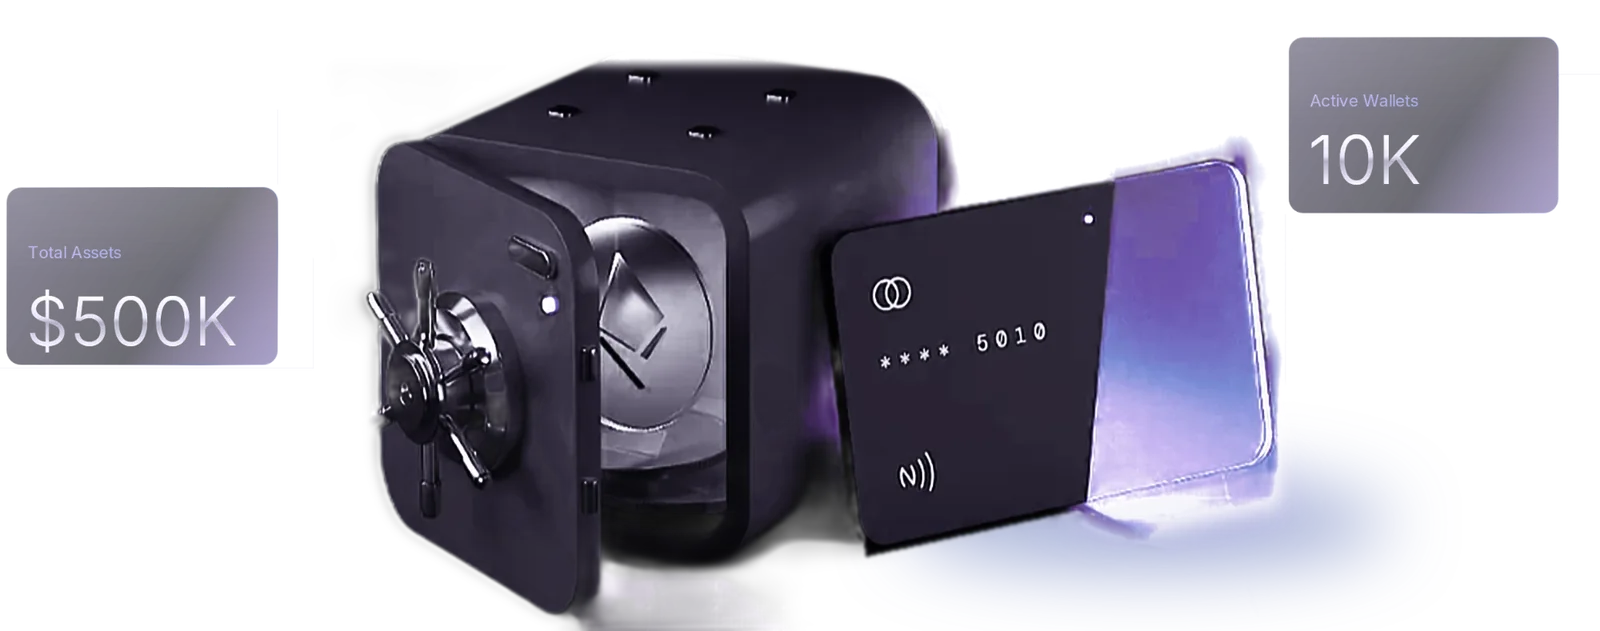
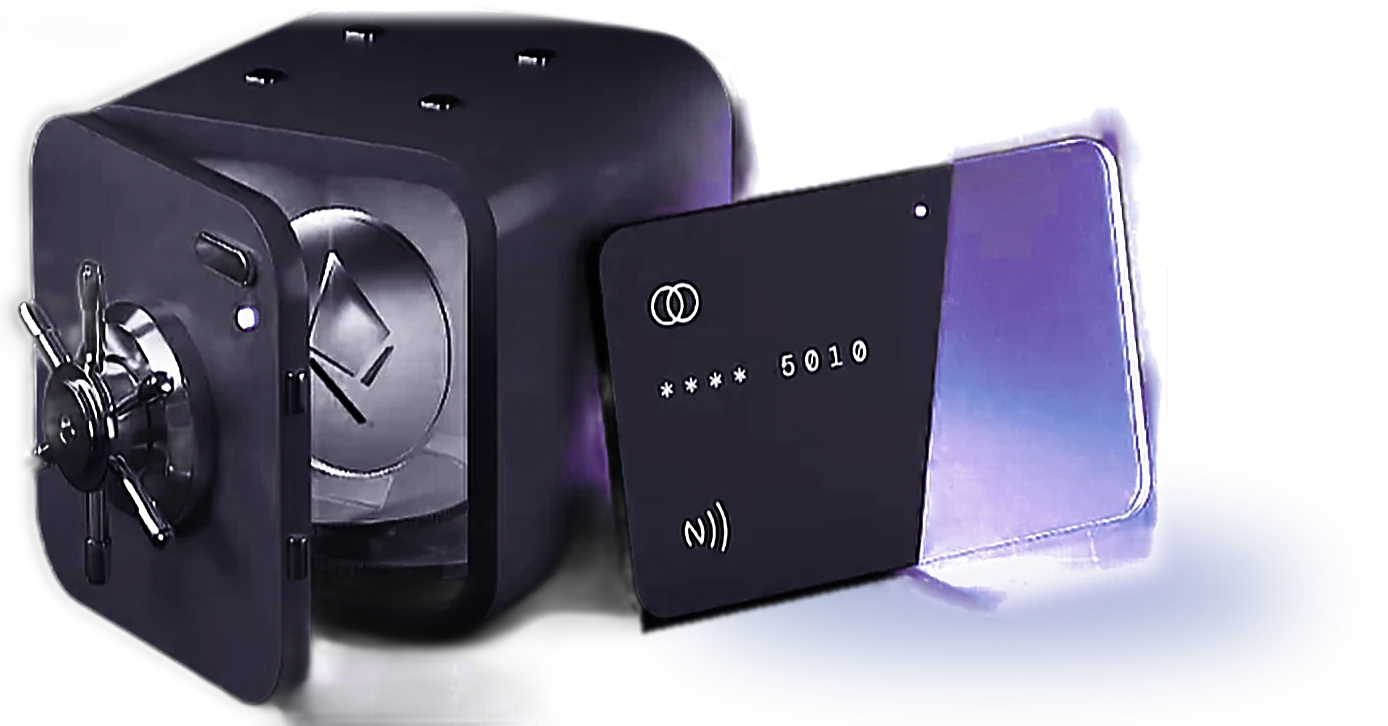
Visual tweaks: sharper animated vault, phone fade, bigger jellyfish
- Wallet section: vault image cleaned and sharpened, figure boxes rebuilt
  as crisp HTML cards (translated), with a gentle float/drift/glow
  animation (off for reduced motion)
- Home app section: phone bottom fades into the page (about 18% shorter)
- Play/pause buttons hidden on the home and sign-up animations
  (AppVideo controls prop)
- Remove the sign-up button under the crypto cards
- Jellyfish 40% larger
- Sign-up: perks box removed, animation enlarged to 560 px

Claude-Session: https://claude.ai/code/session_011eGto6iEGh3aaJA13mcTgq

diff --git a/resources/js/landing/components/sections/GlobeSection.vue b/resources/js/landing/components/sections/GlobeSection.vue
@@ -24,9 +24,17 @@ defineProps({
       </div>
     </div>
 
+    <!-- Coffre + carte (image nette) et deux encadrés de chiffres en HTML, animés séparément. -->
     <div v-reveal class="globe__media">
       <span class="globe__glow" aria-hidden="true" />
-      <img :src="data.image.src" :width="data.image.width" :height="data.image.height" :alt="data.image.alt" loading="lazy" decoding="async" />
+      <div class="globe__vault">
+        <img :src="data.image.src" :width="data.image.width" :height="data.image.height" :alt="data.image.alt" loading="lazy" decoding="async" />
+        <span class="globe__shine" aria-hidden="true" />
+      </div>
+      <div v-for="(s, i) in data.stats" :key="s.label" class="globe__stat" :class="`is-${i}`">
+        <span>{{ s.label }}</span>
+        <strong class="num">{{ s.value }}</strong>
+      </div>
     </div>
   </section>
 </template>
@@ -41,8 +49,30 @@ defineProps({
 .globe__features { display: grid; gap: 16px; margin-top: 44px; font-size: 14px; }
 .globe__features li { display: flex; align-items: center; gap: 14px; }
 /* Visuel large (coffre, carte, indicateurs) : à droite, jusqu'au bord de l'écran, sur un halo violet discret. */
-.globe__media { position: absolute; right: 0; top: 50%; width: min(820px, 54vw); transform: translateY(-50%); }
-.globe__media img { display: block; width: 100%; height: auto; }
+.globe__media { position: absolute; right: 0; top: 50%; width: min(820px, 54vw); aspect-ratio: 2000 / 789; transform: translateY(-50%); container-type: inline-size; }
+/* Positions reprises de l'image d'origine (2000 × 789) pour garder la même composition. */
+.globe__vault { position: absolute; left: 22%; top: 8%; width: 69.4%; animation: globe-float 7s ease-in-out infinite alternate; }
+.globe__vault img { display: block; width: 100%; height: auto; }
+/* Reflet lumineux qui pulse sous la carte. */
+.globe__shine {
+  position: absolute; left: 64%; top: 62%; width: 36%; height: 42%; pointer-events: none; mix-blend-mode: screen;
+  background: radial-gradient(closest-side, color-mix(in srgb, var(--color-brand-secondary-300) 55%, transparent), transparent 75%);
+  animation: globe-pulse 3.6s ease-in-out infinite alternate;
+}
+.globe__stat {
+  position: absolute; display: grid; align-content: center; gap: 0.6cqi; padding: 0 1.8cqi; height: 11.2cqi; min-width: 17cqi; white-space: nowrap;
+  border-radius: 1cqi; border: 1px solid color-mix(in srgb, var(--color-text-default) 14%, transparent);
+  background: linear-gradient(135deg, color-mix(in srgb, var(--color-text-default) 22%, var(--color-bg-surface)), color-mix(in srgb, var(--color-brand-primary) 30%, var(--color-bg-surface)));
+  box-shadow: 0 2cqi 4cqi -2cqi var(--ink); backdrop-filter: blur(10px); -webkit-backdrop-filter: blur(10px);
+}
+.globe__stat span { font-size: max(8.5px, 1.25cqi); color: color-mix(in srgb, var(--color-brand-secondary-300) 85%, var(--color-text-default)); }
+.globe__stat strong { font-size: 4.4cqi; font-weight: 300; line-height: 1; letter-spacing: -0.02em; color: var(--color-text-default); }
+.globe__stat.is-0 { left: 0.4%; top: 29.5%; animation: globe-drift 8s ease-in-out infinite alternate; }
+.globe__stat.is-1 { right: 2.6%; top: 5.7%; animation: globe-drift 9s ease-in-out -3s infinite alternate-reverse; }
+@keyframes globe-float { from { transform: translateY(-1.2cqi) rotate(-0.6deg); } to { transform: translateY(1.2cqi) rotate(0.6deg); } }
+@keyframes globe-drift { from { transform: translate(-0.6cqi, -1.4cqi); } to { transform: translate(0.6cqi, 1.4cqi); } }
+@keyframes globe-pulse { from { opacity: 0.35; } to { opacity: 0.9; } }
+@media (prefers-reduced-motion: reduce) { .globe__vault, .globe__stat, .globe__shine { animation: none; } }
 .globe__glow {
   position: absolute; inset: -30% -20%; z-index: -1; pointer-events: none;
   background: radial-gradient(closest-side, color-mix(in srgb, var(--color-brand-primary) 45%, transparent), transparent 70%); opacity: 0.55;

diff --git a/resources/js/landing/components/auth/AuthVisual.vue b/resources/js/landing/components/auth/AuthVisual.vue
@@ -3,10 +3,9 @@ import { ref } from 'vue';
 import { prefersReducedMotion } from '../../composables/useReducedMotion.js';
 import AppVideo from '../visuals/AppVideo.vue';
 import ShieldMark from '../visuals/ShieldMark.vue';
-import ZIcon from '../ui/ZIcon.vue';
 
 // Visuel des pages d'authentification. Connexion : image (cadenas et clé) qui suit légèrement le pointeur.
-// Inscription : vidéo de pièces (fond transparent) au-dessus des avantages.
+// Inscription : vidéo de pièces (fond transparent), sans bouton lecture / pause.
 defineProps({
   data: { type: Object, required: true }, // pages.login.visual | pages.signup.visual
   variant: { type: String, default: 'shield' }, // shield | perks
@@ -45,12 +44,7 @@ function onLeave() {
     </div>
 
     <div v-else class="av__stage">
-      <div v-if="data.video" class="av__video"><AppVideo :video="data.video" toggle="corner" /></div>
-      <div class="av__card" v-reveal="300">
-        <ul>
-          <li v-for="p in data.perks" :key="p"><ZIcon name="check" :size="16" /> {{ p }}</li>
-        </ul>
-      </div>
+      <div v-if="data.video" class="av__video"><AppVideo :video="data.video" :controls="false" /></div>
     </div>
   </div>
 </template>
@@ -68,20 +62,10 @@ function onLeave() {
 }
 .av__shield.is-image { width: min(400px, 72%); }
 .av__shield img { display: block; width: 100%; height: auto; filter: drop-shadow(0 40px 60px var(--ink)) drop-shadow(0 0 70px color-mix(in srgb, var(--glow-brand) 60%, transparent)); }
-.av__video { width: min(400px, 82%); margin: 0 auto 8px; }
+.av__video { width: min(560px, 100%); margin: 0 auto; }
 .av--perks .av__stage { display: flex; flex-direction: column; align-items: center; justify-content: center; gap: 12px; }
 .av__shield :deep(.shield) { filter: drop-shadow(0 40px 60px var(--ink)) drop-shadow(0 0 60px var(--glow-brand)); }
 @keyframes av-float { from { translate: 0 -10px; } to { translate: 0 10px; } }
 
-.av__card {
-  position: relative; width: min(420px, 100%); padding: 32px 28px; border-radius: var(--radius-lg);
-  background: linear-gradient(160deg, var(--fill-2), var(--fill-1));
-  backdrop-filter: blur(18px); -webkit-backdrop-filter: blur(18px);
-  border: 1px solid var(--color-line-strong); box-shadow: 0 40px 90px -30px var(--ink), 0 0 80px -30px var(--glow-brand);
-  transform: rotateX(calc(var(--ty, 0) * -8deg)) rotateY(calc(var(--tx, 0) * 10deg)); transition: transform 600ms var(--motion-ease-out);
-}
-.av__card ul { position: relative; display: grid; gap: 18px; }
-.av__card li { display: flex; gap: 12px; font-size: 15px; line-height: 1.4; }
-.av__card li :deep(svg) { flex: none; margin-top: 2px; color: var(--color-state-up); }
 @media (prefers-reduced-motion: reduce) { .av__shield { animation: none; } }
 </style>

diff --git a/resources/js/landing/content/fr.js b/resources/js/landing/content/fr.js
@@ -162,7 +162,6 @@ export default function createContent(linkOverrides = {}) {
       id: 'cryptos',
       type: 'coins',
       title: 'Vos cryptos<br><i>préférées,</i> en un geste',
-      cta: { label: "S'inscrire", href: links.signup },
       speeds: [38, 46], // secondes par boucle, une valeur par rangée
     },
     {
@@ -307,6 +306,8 @@ export default function createContent(linkOverrides = {}) {
         { icon: 'fingerprint', label: 'Connexion biométrique sécurisée' },
       ],
       image: media.wallet,
+      // DÉMO — chiffres à confirmer avant mise en ligne.
+      stats: [{ label: 'Actifs totaux', value: '$500K' }, { label: 'Portefeuilles actifs', value: '10K' }],
     },
   ];
 
@@ -601,11 +602,6 @@ export default function createContent(linkOverrides = {}) {
       visual: {
         title: 'Votre compte,<br>en <i>quelques minutes.</i>',
         video: { label: 'Animation : anneau de cryptomonnaies en chrome violet qui tourne.', play: 'Lire l’animation', pause: 'Mettre l’animation en pause', ...media.authSignup },
-        perks: [
-          'Achetez en FCFA avec Wave, Orange Money ou Mixx by Yas',
-          'Le montant reçu est affiché avant de payer',
-          'Envoyez, échangez et retirez depuis un seul portefeuille',
-        ],
       },
       title: 'Créer un compte',
       step: 'Étape {n}/{total}',

diff --git a/resources/js/landing/content/en.js b/resources/js/landing/content/en.js
@@ -157,7 +157,6 @@ export default function createContent(linkOverrides = {}) {
       id: 'cryptos',
       type: 'coins',
       title: 'Your <i>favourite</i><br>crypto, in one tap',
-      cta: { label: 'Sign up', href: links.signup },
       speeds: [38, 46],
     },
     {
@@ -300,6 +299,8 @@ export default function createContent(linkOverrides = {}) {
         { icon: 'fingerprint', label: 'Secure biometric login' },
       ],
       image: media.wallet,
+      // DÉMO — chiffres à confirmer avant mise en ligne.
+      stats: [{ label: 'Total assets', value: '$500K' }, { label: 'Active wallets', value: '10K' }],
     },
   ];
 
@@ -589,11 +590,6 @@ export default function createContent(linkOverrides = {}) {
       visual: {
         title: 'Your account,<br>in <i>a few minutes.</i>',
         video: { label: 'Animation: a spinning ring of violet chrome crypto coins.', play: 'Play the animation', pause: 'Pause the animation', ...media.authSignup },
-        perks: [
-          'Buy in CFA francs with Wave, Orange Money or Mixx by Yas',
-          'The amount you receive is shown before you pay',
-          'Send, swap and withdraw from a single wallet',
-        ],
       },
       title: 'Create an account',
       step: 'Step {n}/{total}',

diff --git a/resources/js/landing/components/sections/AppShowcase.vue b/resources/js/landing/components/sections/AppShowcase.vue
@@ -37,7 +37,7 @@ const sides = computed(() => [props.data.perks.slice(0, half.value), props.data.
         </li>
       </ul>
       <div class="app__video">
-        <AppVideo :video="data.video" />
+        <AppVideo :video="data.video" :controls="false" />
       </div>
     </div>
   </section>
@@ -51,6 +51,11 @@ const sides = computed(() => [props.data.perks.slice(0, half.value), props.data.
   grid-template-areas: 'left video right'; align-items: center; gap: 40px; margin-top: 32px;
 }
 .app__video { grid-area: video; transform: translateY(calc((1 - var(--in, 1)) * 18%)); }
+/* Bas du téléphone fondu dans la page : l'animation paraît plus courte (≈ 18 % de hauteur en moins). */
+.app__video :deep(.av) {
+  -webkit-mask-image: linear-gradient(#000 62%, transparent 82%); mask-image: linear-gradient(#000 62%, transparent 82%);
+  margin-bottom: -32%;
+}
 .app__perks { display: grid; gap: 34px; text-align: left; }
 .app__perks.is-left { grid-area: left; justify-self: end; text-align: right; }
 .app__perks.is-right { grid-area: right; justify-self: start; }

diff --git a/resources/js/landing/components/visuals/AppVideo.vue b/resources/js/landing/components/visuals/AppVideo.vue
@@ -9,6 +9,7 @@ import ZIcon from '../ui/ZIcon.vue';
 const props = defineProps({
   video: { type: Object, required: true }, // { webm, mp4, poster, label, play, pause, width?, height? }
   toggle: { type: String, default: 'side' }, // 'side' : à droite du téléphone · 'corner' : coin bas droit
+  controls: { type: Boolean, default: true }, // false : pas de bouton lecture / pause
 });
 
 const el = ref(null);
@@ -70,7 +71,7 @@ onBeforeUnmount(() => io?.disconnect());
         <source :src="video.mp4" type="video/mp4" />
       </template>
     </video>
-    <button type="button" class="av__toggle" :aria-label="playing ? video.pause : video.play" :title="playing ? video.pause : video.play" @click="toggle">
+    <button v-if="controls" type="button" class="av__toggle" :aria-label="playing ? video.pause : video.play" :title="playing ? video.pause : video.play" @click="toggle">
       <ZIcon v-if="playing" name="pause" :size="14" />
       <ZIcon v-else name="play" :size="14" />
     </button>

diff --git a/resources/js/landing/content/data.js b/resources/js/landing/content/data.js
@@ -356,7 +356,7 @@ export const media = {
   // Section Sécurité : cadenas 3D, fond transparent.
   security: { src: '/images/landing/securite-cadenas.webp', width: 640, height: 804, alt: '' },
   // Section « Portefeuille partout » : coffre, carte et indicateurs (fond transparent).
-  wallet: { src: '/images/landing/portefeuille-coffre.webp', width: 1600, height: 631, alt: '' },
+  wallet: { src: '/images/landing/portefeuille-coffre.webp', width: 1388, height: 726, alt: '' }, // coffre + carte, sans les encadrés (rendus en HTML)
   // Visuels de la section Services (public/images/landing/services/), fond transparent.
   services: {
     buy: { src: '/images/landing/services/achat-rapide.webp', width: 840, height: 586 },

diff --git a/resources/js/landing/components/visuals/JellyfishSwim.vue b/resources/js/landing/components/visuals/JellyfishSwim.vue
@@ -182,7 +182,7 @@ onBeforeUnmount(() => {
 <style scoped>
 .jelly-stage { position: absolute; inset: 0; overflow: hidden; pointer-events: none; }
 .jelly {
-  position: absolute; left: 0; top: 0; width: clamp(260px, 30vw, 480px); aspect-ratio: 512 / 528;
+  position: absolute; left: 0; top: 0; width: clamp(364px, 42vw, 672px); /* +40 % */ aspect-ratio: 512 / 528;
   transform-origin: 50% 28%; will-change: transform, opacity; contain: layout paint;
   opacity: 0; /* invisible jusqu'à la première image calculée */
 }

diff --git a/resources/js/landing/components/sections/CoinsMarquee.vue b/resources/js/landing/components/sections/CoinsMarquee.vue
@@ -1,6 +1,5 @@
 <script setup>
 import { computed } from 'vue';
-import ZButton from '../ui/ZButton.vue';
 import ZCoinChip from '../ui/ZCoinChip.vue';
 import ZTag from '../ui/ZTag.vue';
 
@@ -37,7 +36,6 @@ const rows = computed(() => [props.common.coins, [...props.common.coins].reverse
       </div>
     </div>
 
-    <ZButton v-reveal size="lg" :href="data.cta.href">{{ data.cta.label }}</ZButton>
   </section>
 </template>
 
